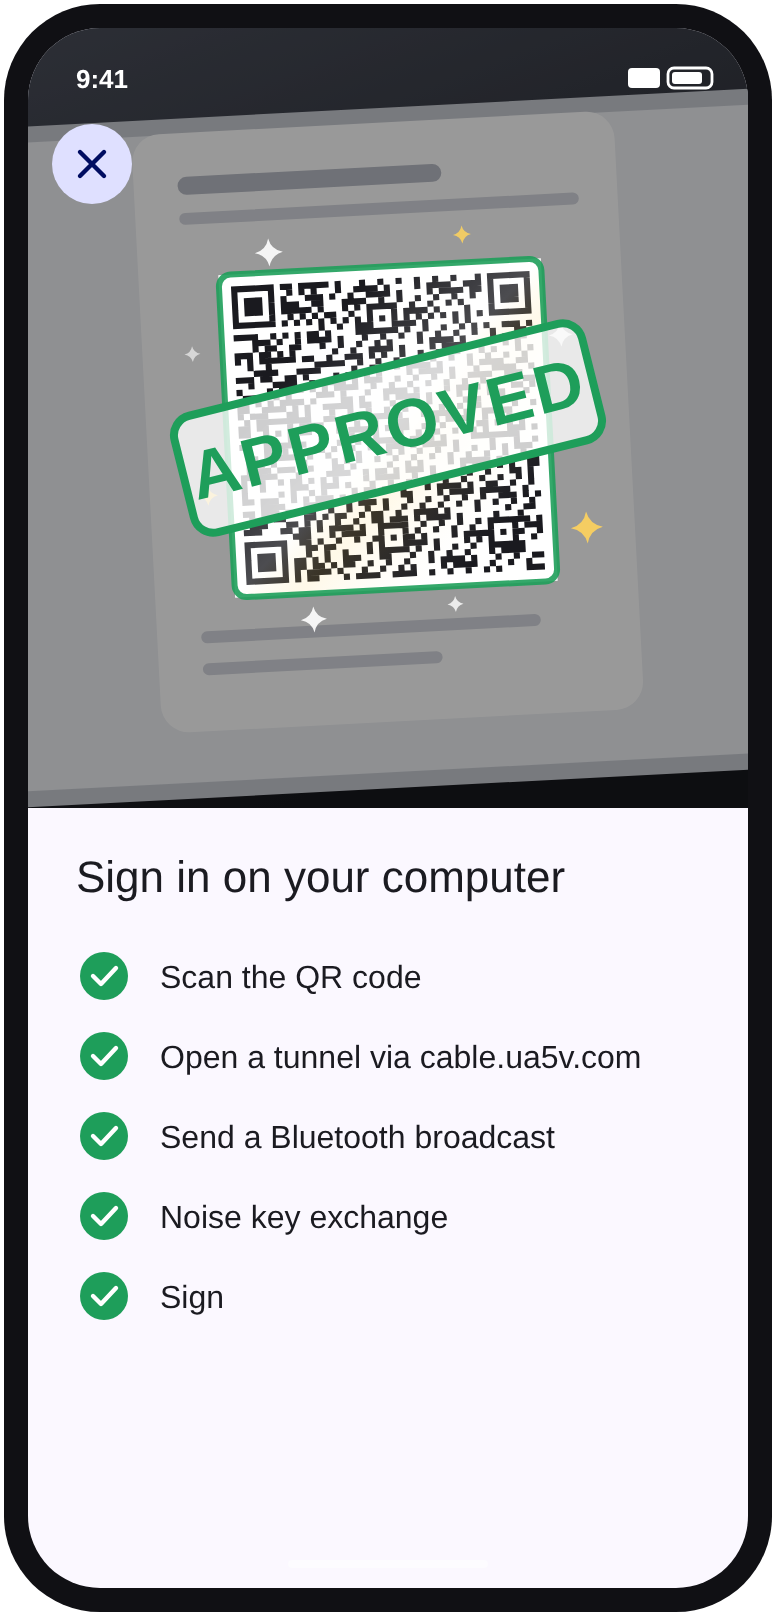
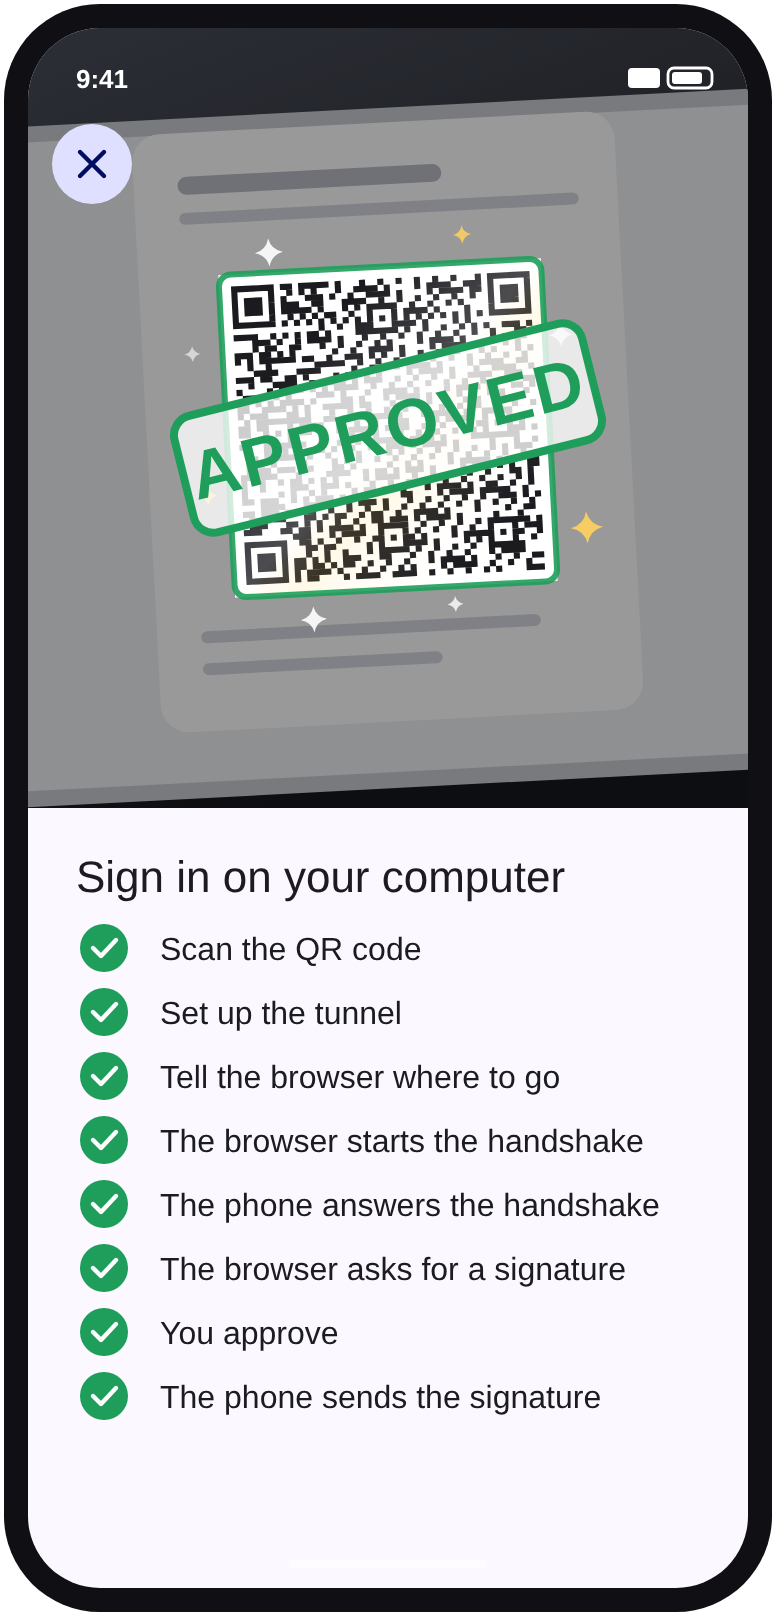
Website: sign-in screenshots with the app's eight steps
Verifying, approved and denied now show the eight steps the app uses
(the same as the QR sign-in explanation), in green, yellow and red;
denied shows the failed step with its message and leaves out the steps
after it, as the app does.

Claude-Session: https://claude.ai/code/session_01Sf6BjLYgBsn6Pwp3AkGd6P

diff --git a/docs/index.html b/docs/index.html
@@ -216,9 +216,9 @@
     </div>
     <h3>Signing in on a computer</h3>
     <div class="shot-row">
-      <div class="shot"><img src="assets/screen_verifying.png" alt="The scanned sign-in QR code with a yellow VERIFYING stamp, while the phone waits for the computer to connect" loading="lazy"><p>Scanned: verifying while the computer connects.</p></div>
-      <div class="shot"><img src="assets/screen_approved.png" alt="The scanned sign-in QR code stamped APPROVED, above a list of five completed steps" loading="lazy"><p>Approved: you are signed in on the computer.</p></div>
-      <div class="shot"><img src="assets/screen_denied.png" alt="The scanned sign-in QR code stamped DENIED in red; the key-exchange step explains that the computer did not connect and what to do" loading="lazy"><p>Denied, with what went wrong and what to do.</p></div>
+      <div class="shot"><img src="assets/screen_verifying.png" alt="The scanned sign-in QR code with a yellow VERIFYING stamp; below it the eight steps, the first three done and the phone waiting for the computer to start the handshake" loading="lazy"><p>Scanned: verifying while the computer connects.</p></div>
+      <div class="shot"><img src="assets/screen_approved.png" alt="The scanned sign-in QR code stamped APPROVED, above the eight steps, all completed" loading="lazy"><p>Approved: you are signed in on the computer.</p></div>
+      <div class="shot"><img src="assets/screen_denied.png" alt="The scanned sign-in QR code stamped DENIED in red; the step where the browser should start the handshake explains that the computer did not connect and what to do" loading="lazy"><p>Denied, with what went wrong and what to do.</p></div>
     </div>
   </div>
 </section>
